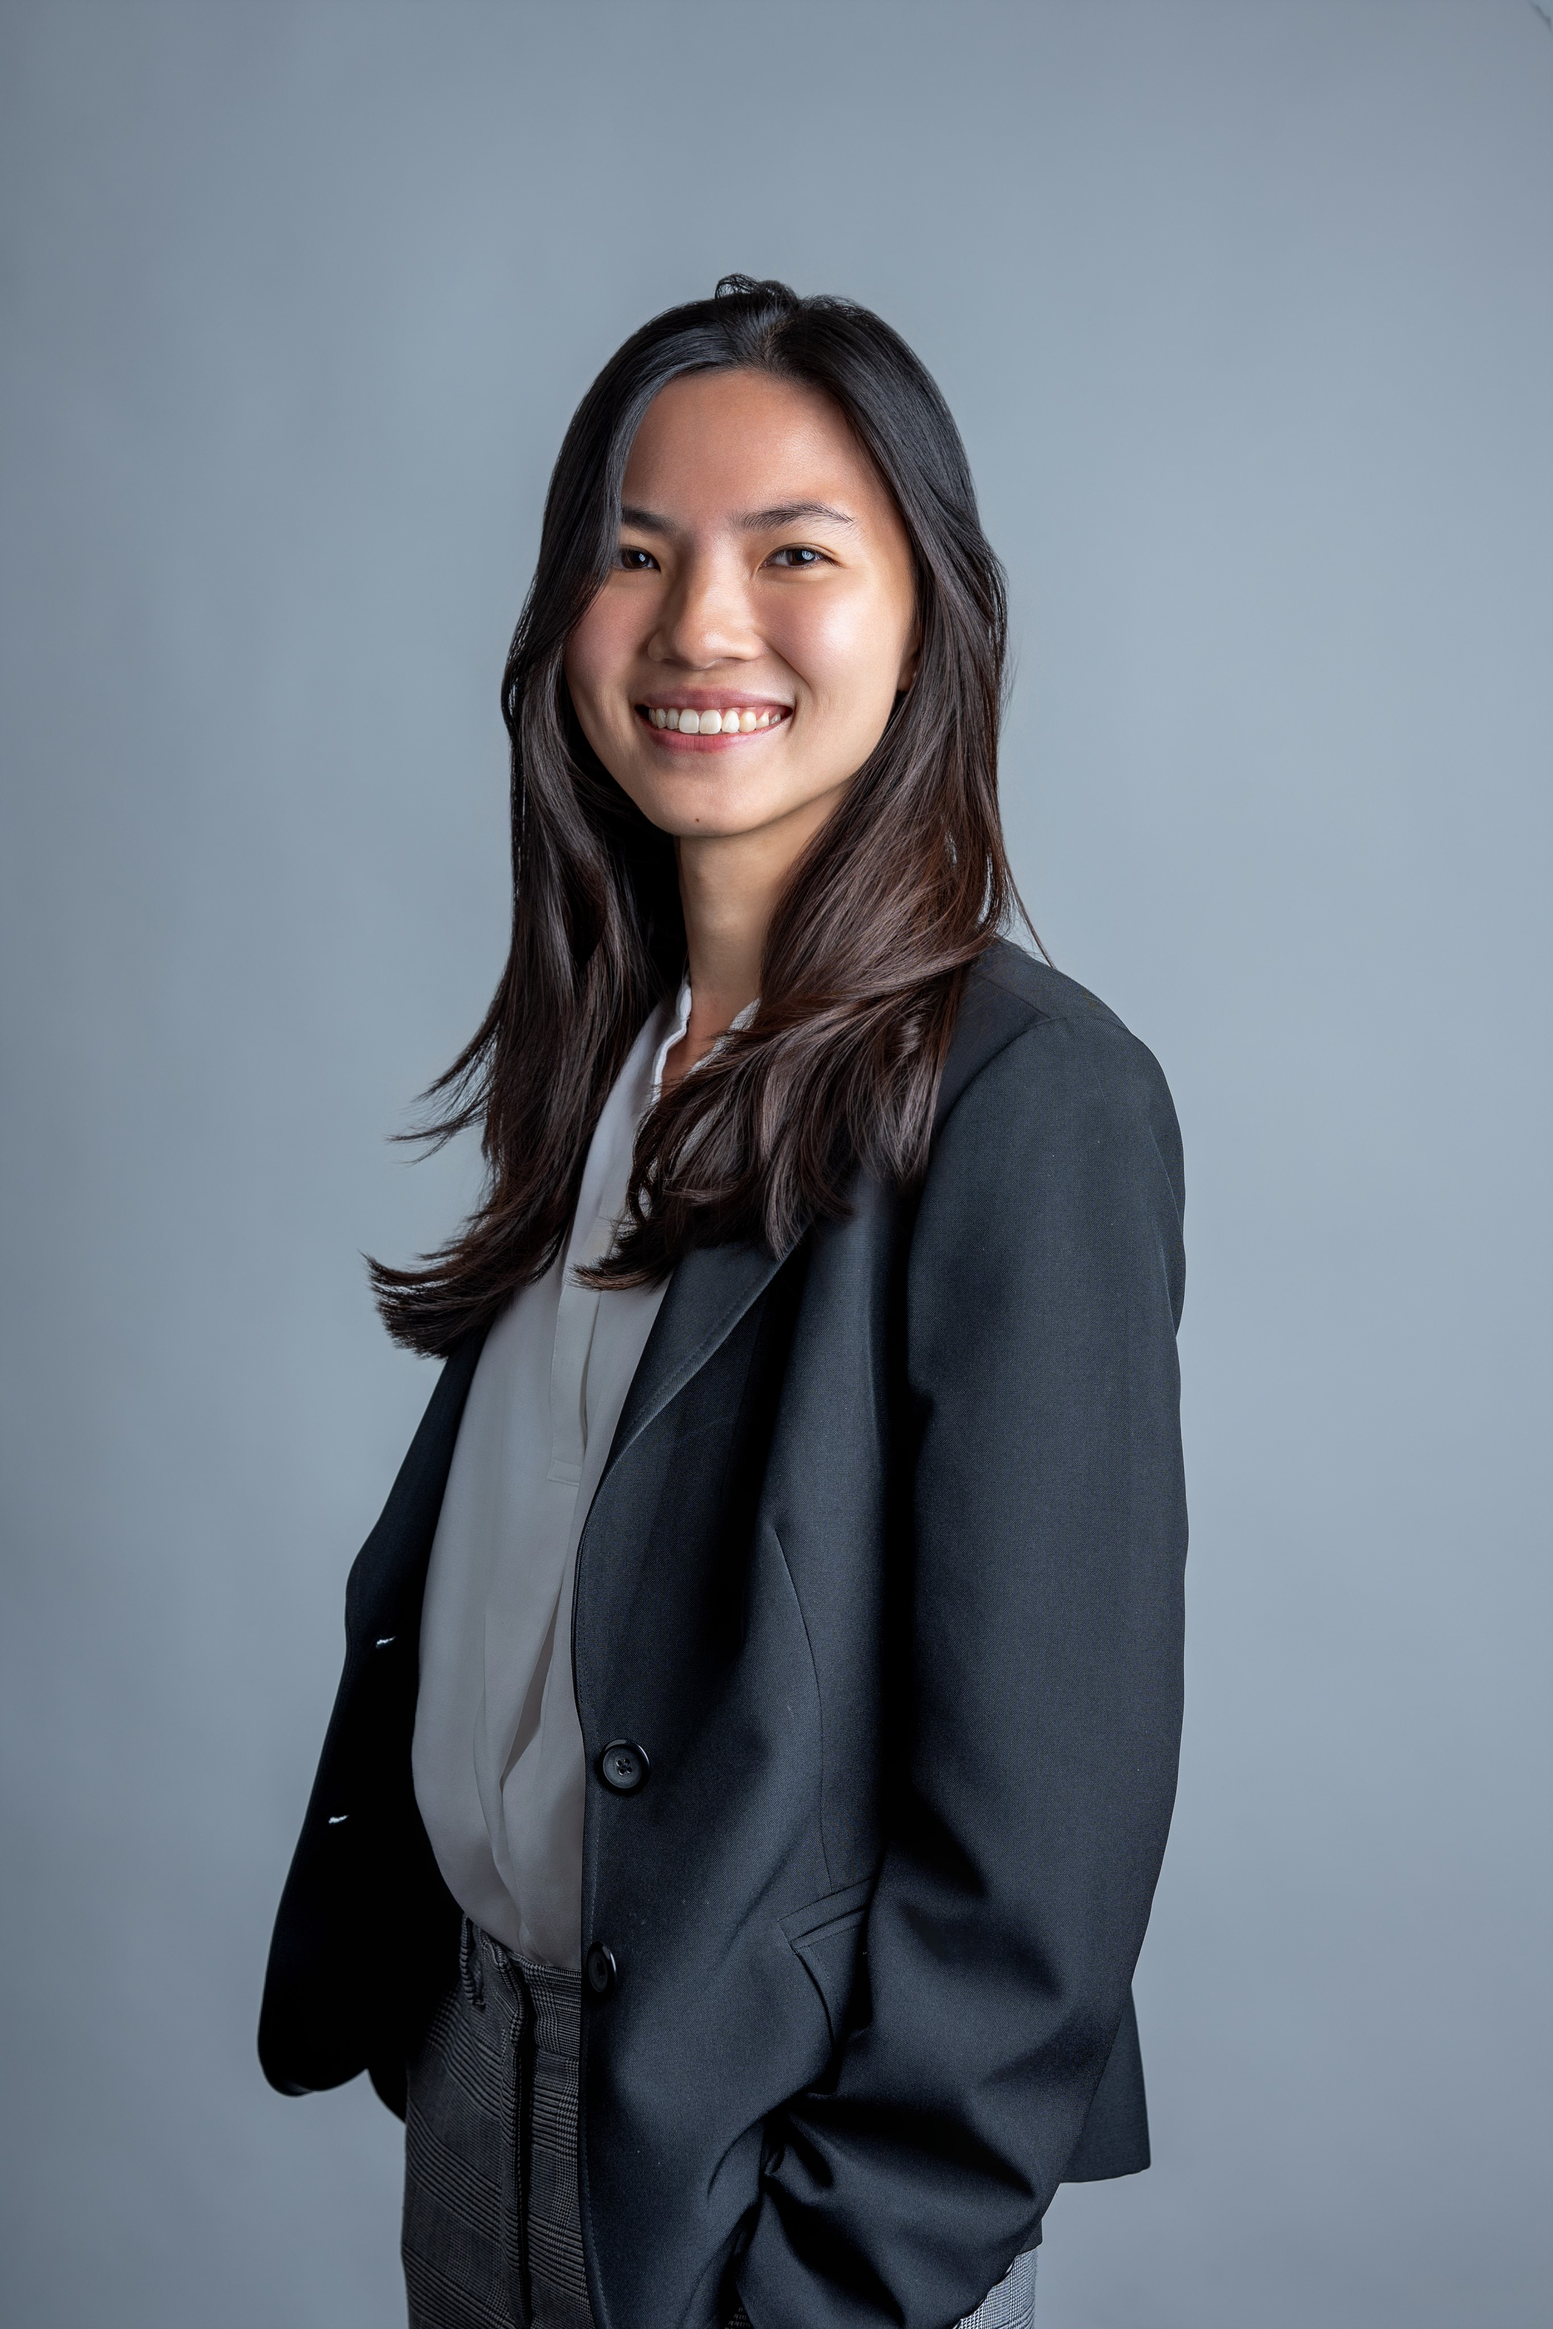
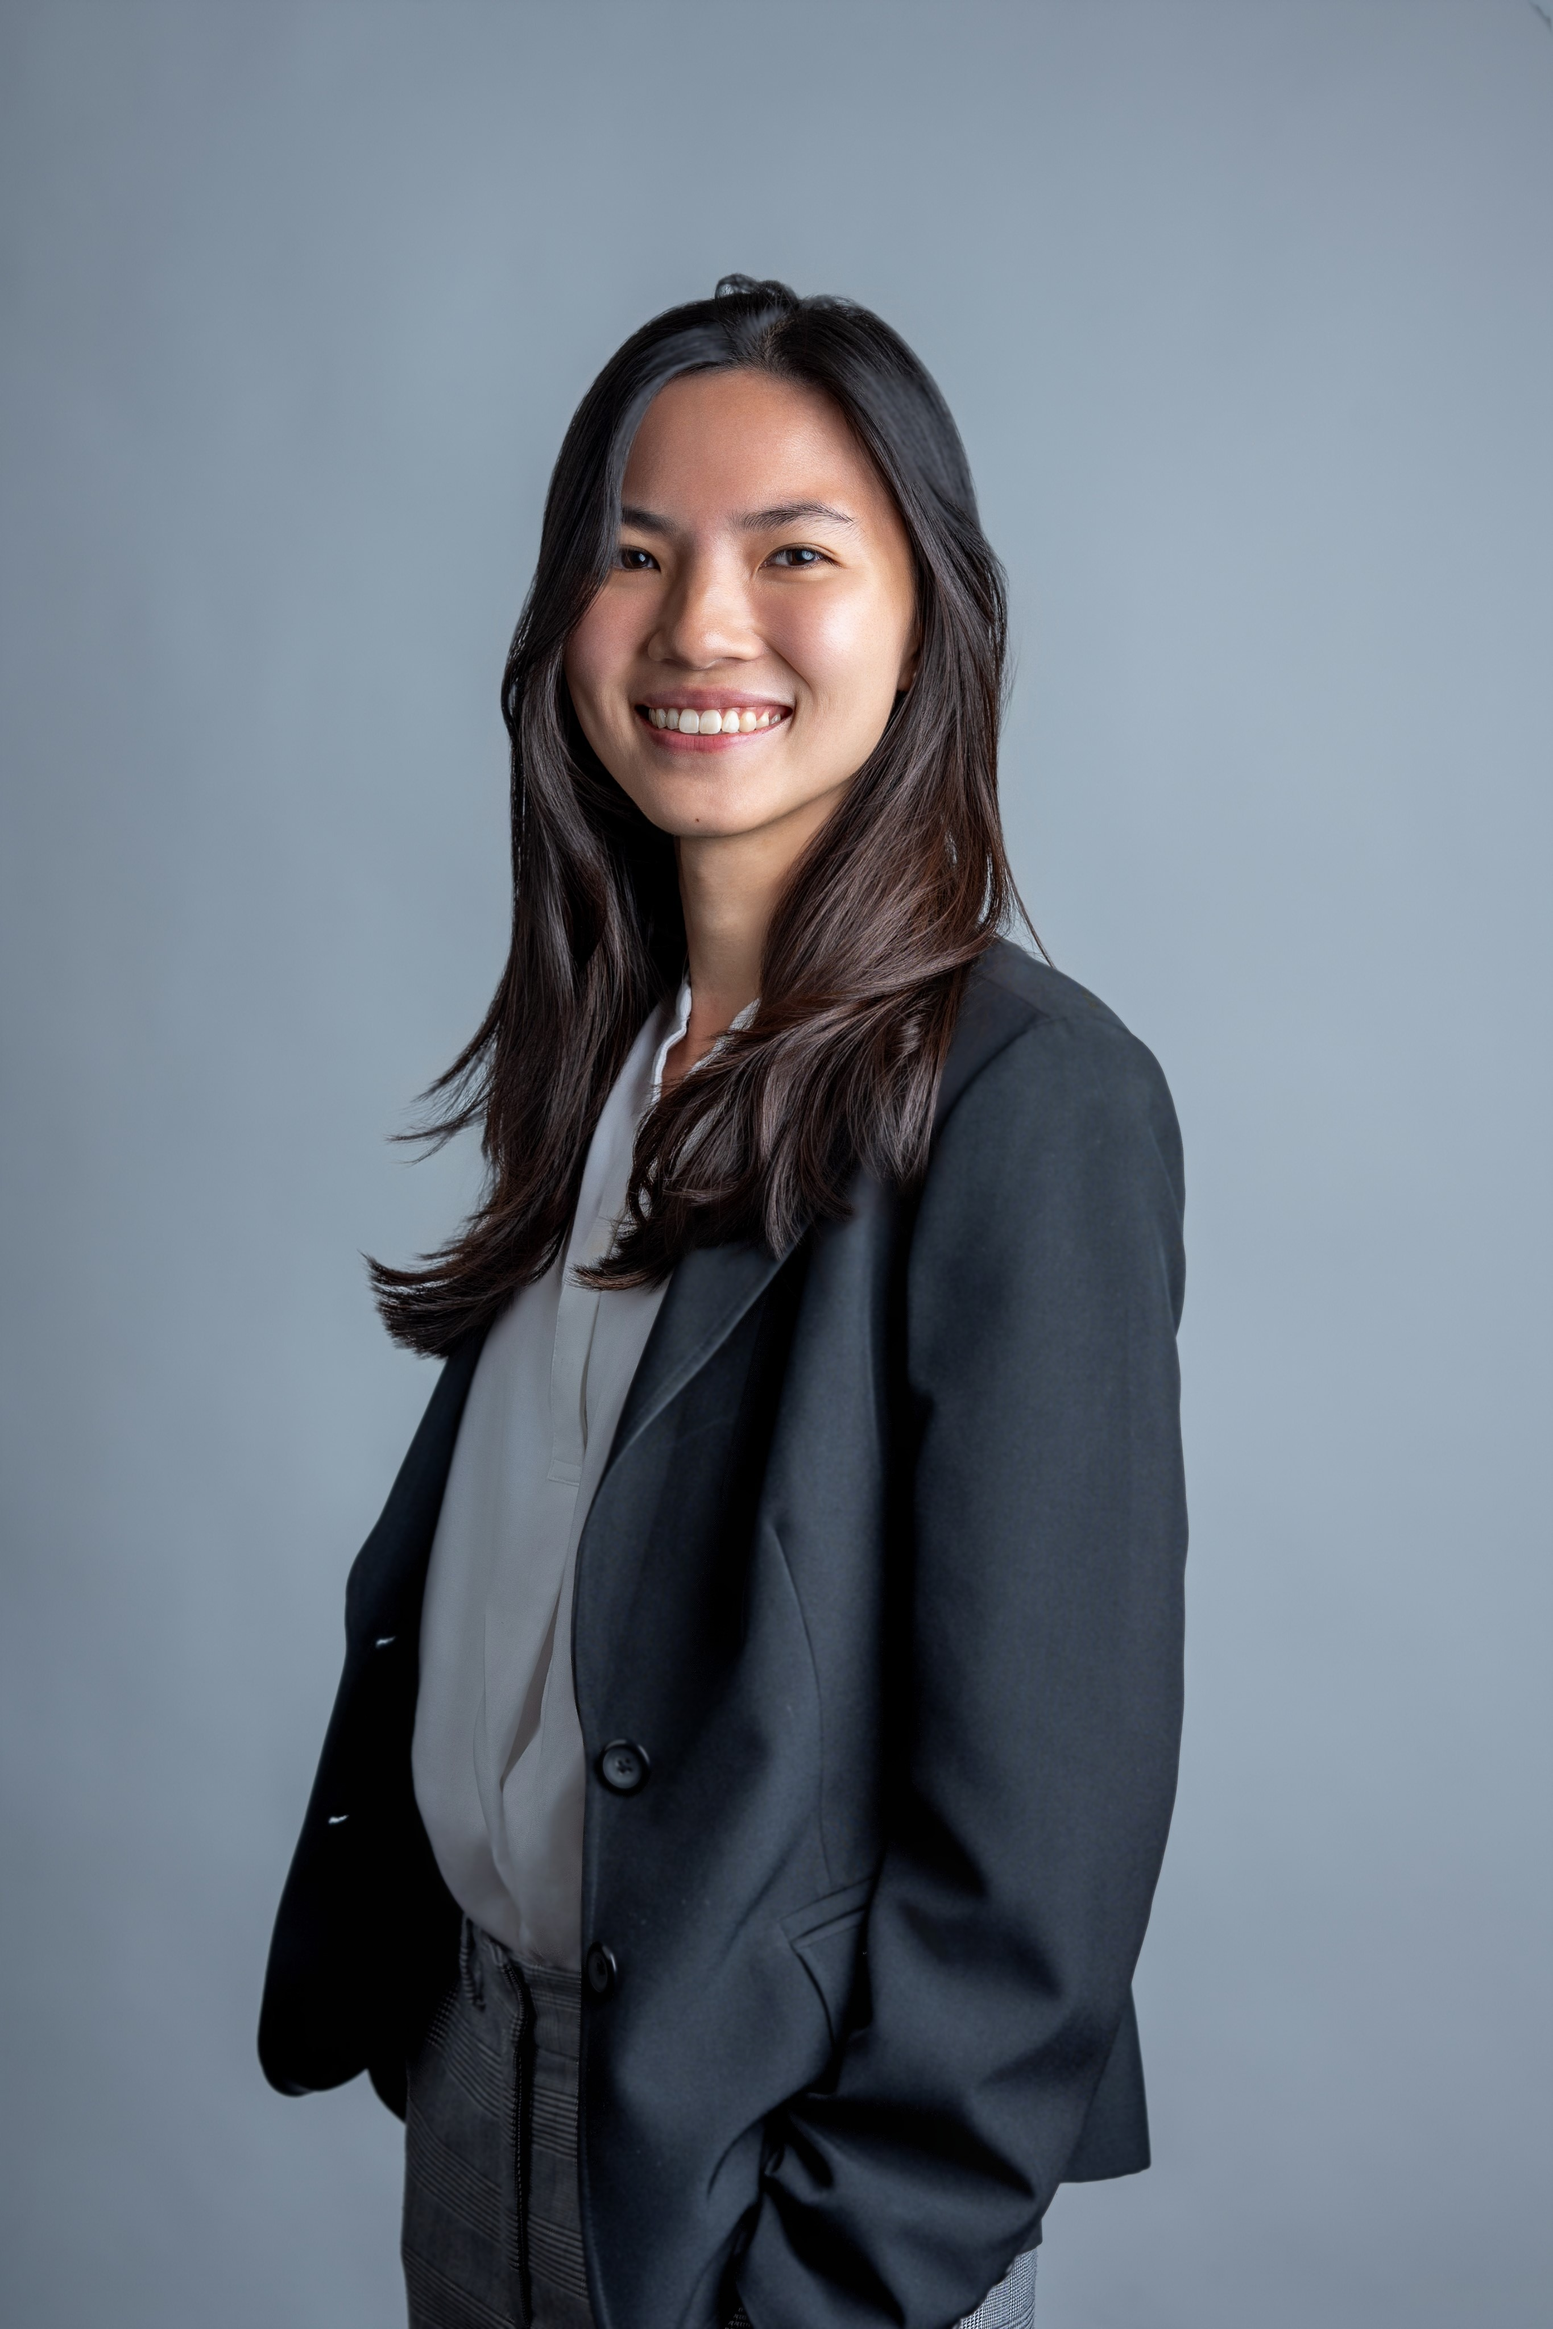
Embed PropertyAgent intro video and soften profile photo jacket texture
- Add responsive YouTube embed under "The Idea" on the PropertyAgent case study
- Reduce jacket fabric texture in the hero/about profile photo via a
  color-based mask, leaving hair and face untouched

diff --git a/products/property-agent.html b/products/property-agent.html
@@ -63,6 +63,17 @@
 
         <div class="product-section" id="idea">
           <h2>The Idea</h2>
+          <div class="video-embed">
+            <iframe
+              src="https://www.youtube-nocookie.com/embed/lB9i7LfVbws"
+              title="PropertyAgent introduction video"
+              frameborder="0"
+              allow="accelerometer; autoplay; clipboard-write; encrypted-media; gyroscope; picture-in-picture; web-share"
+              referrerpolicy="strict-origin-when-cross-origin"
+              allowfullscreen
+              loading="lazy"
+            ></iframe>
+          </div>
           <p>
             Going DIY on a Singapore property transaction is meant to save the commission
             — 1–2% for buyers, 2% for sellers, half a month to a full month's rent for

diff --git a/css/product.css b/css/product.css
@@ -60,6 +60,24 @@
   line-height: 1.7;
 }
 
+.video-embed {
+  position: relative;
+  width: 100%;
+  padding-top: 56.25%;
+  margin-bottom: 20px;
+  border-radius: 12px;
+  overflow: hidden;
+  background: var(--color-border);
+}
+
+.video-embed iframe {
+  position: absolute;
+  inset: 0;
+  width: 100%;
+  height: 100%;
+  border: 0;
+}
+
 .product-nav {
   display: flex;
   justify-content: space-between;
